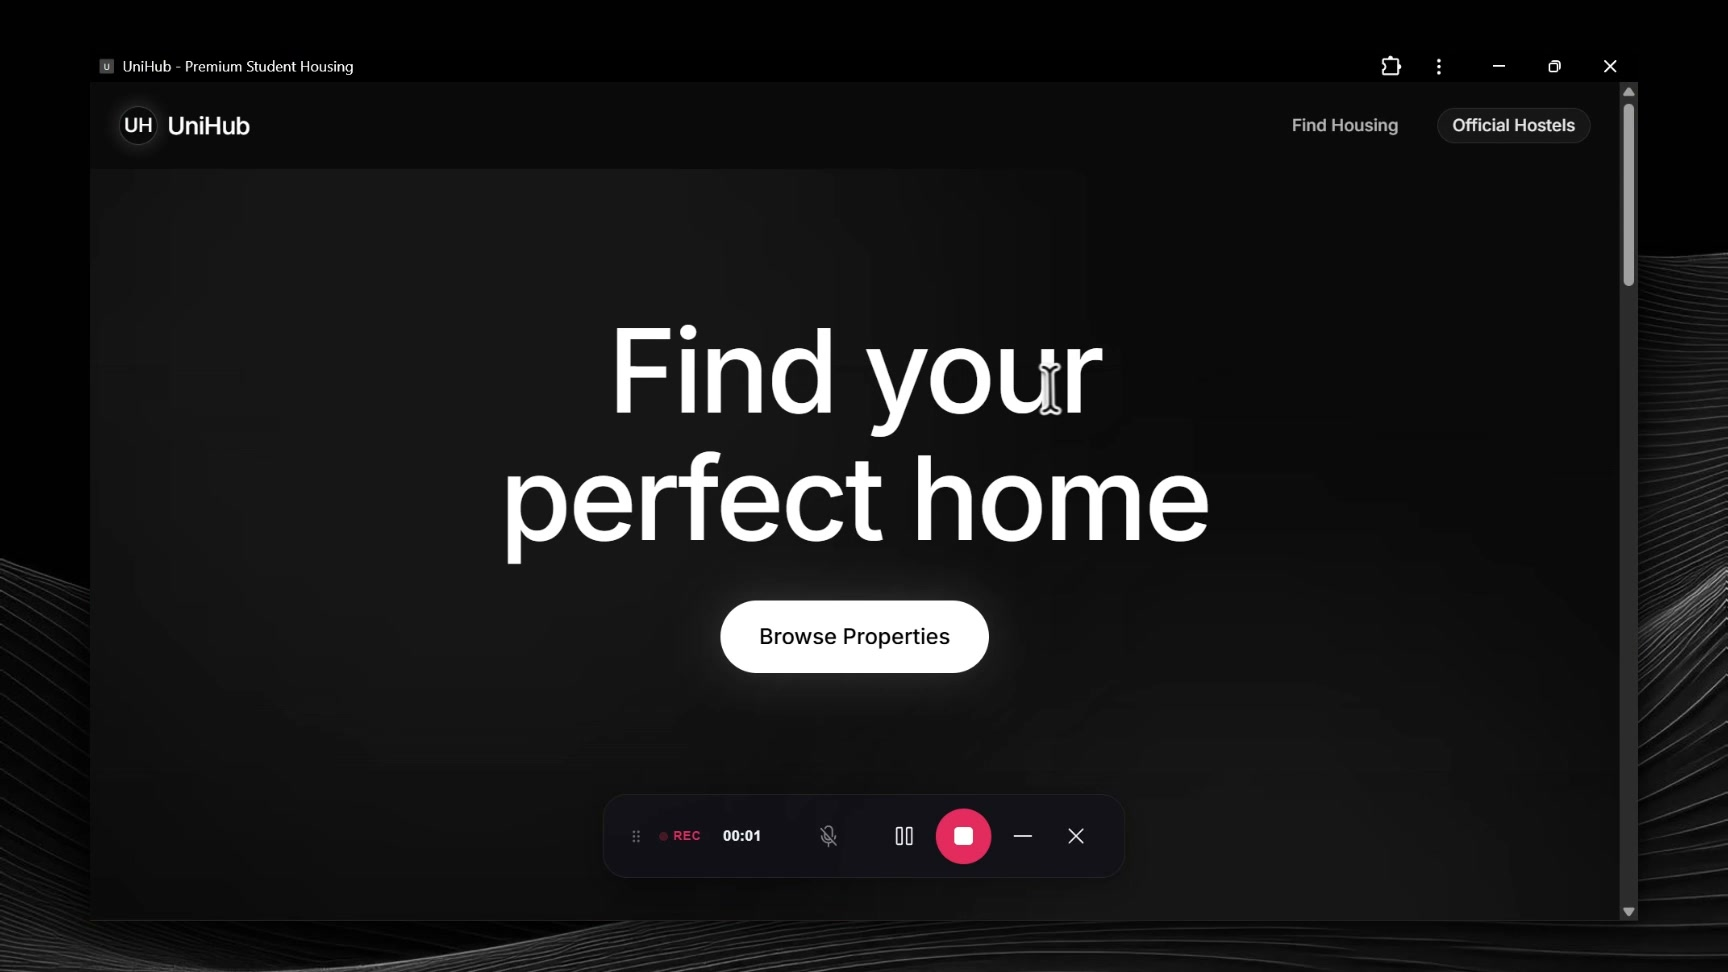
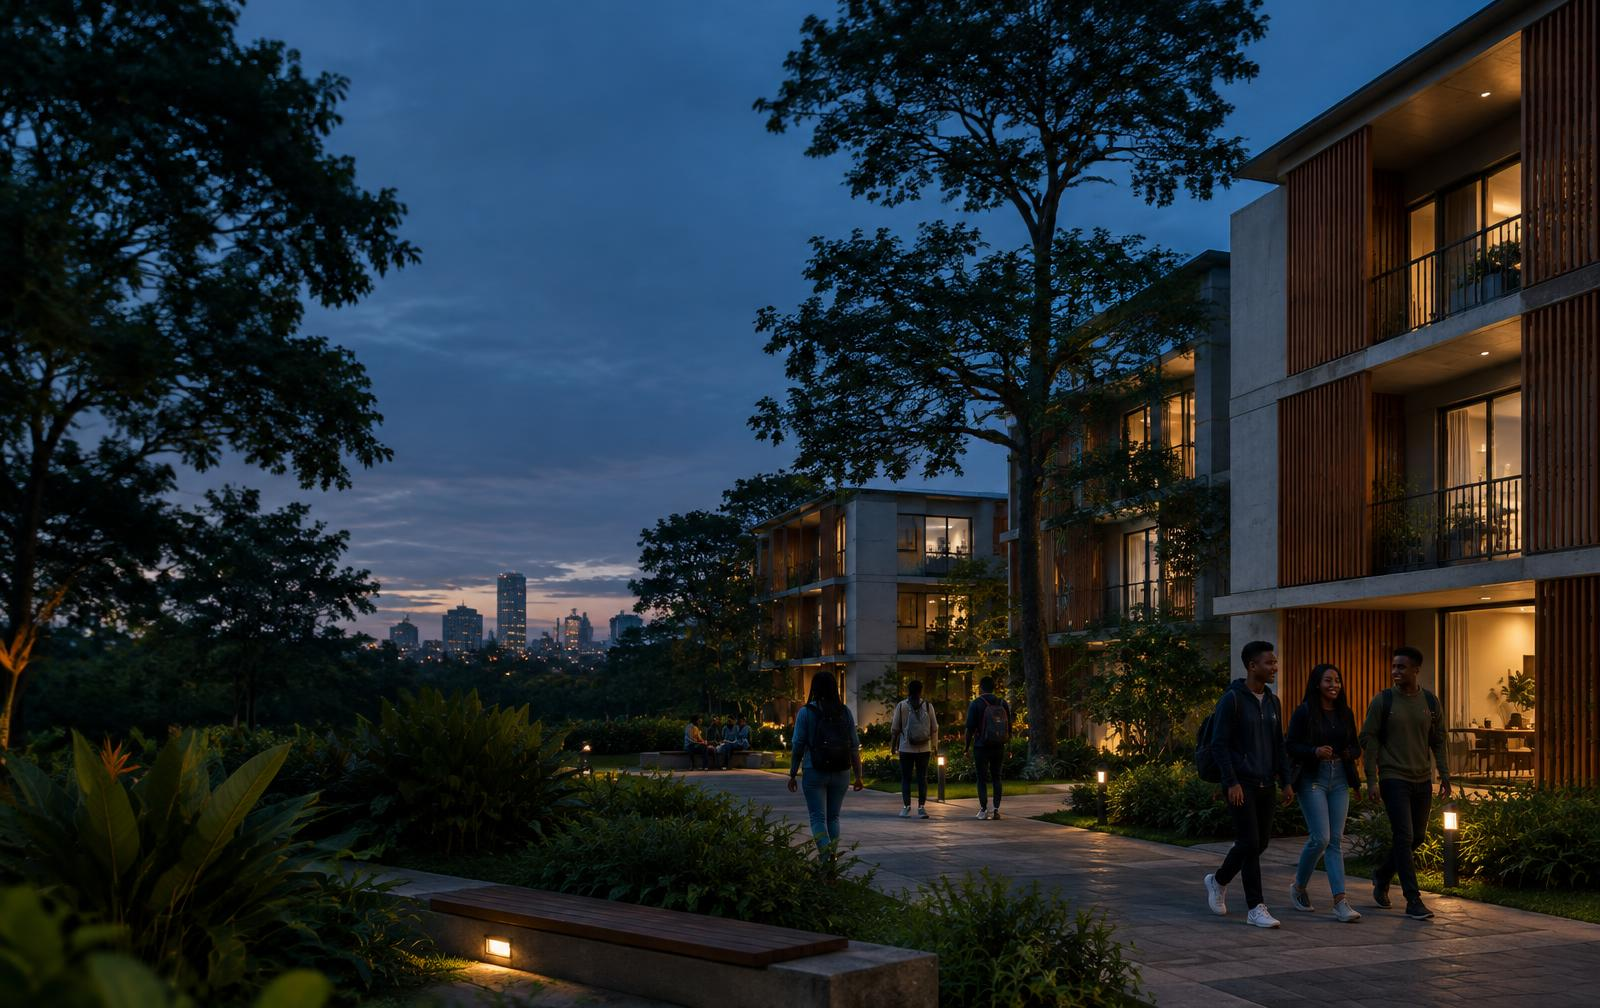
Remove screen recording from hero; restore housing image
Walkthrough clip kept as unihub-site-walkthrough.mp4 for later use.
Hero returns to static verified-housing photography.

diff --git a/src/routes/index.tsx b/src/routes/index.tsx
@@ -1,4 +1,3 @@
-import { useEffect, useRef } from "react";
 import { Link, createFileRoute } from "@tanstack/react-router";
 import {
   ArrowRight,
@@ -12,7 +11,6 @@ import {
 } from "lucide-react";
 import { SiteFooter, SiteHeader, WHATSAPP_URL } from "@/components/MarketingChrome";
 import heroImage from "@/assets/unihub-hero.jpg";
-import heroVideo from "@/assets/unihub-hero.mp4";
 import bedsitterImage from "@/assets/listing-bedsitter.jpg";
 import hostelImage from "@/assets/listing-hostel.jpg";
 import apartmentImage from "@/assets/listing-apartment.jpg";
@@ -171,28 +169,6 @@ function PrimaryLink({
 }
 
 function Index() {
-  const heroVideoRef = useRef<HTMLVideoElement>(null);
-
-  useEffect(() => {
-    const video = heroVideoRef.current;
-    if (!video) return;
-
-    const media = window.matchMedia("(prefers-reduced-motion: reduce)");
-    const syncPlayback = () => {
-      if (media.matches) {
-        video.pause();
-        return;
-      }
-      void video.play().catch(() => {
-        // Autoplay can fail before user gesture; poster still shows.
-      });
-    };
-
-    syncPlayback();
-    media.addEventListener("change", syncPlayback);
-    return () => media.removeEventListener("change", syncPlayback);
-  }, []);
-
   return (
     <div className="min-h-screen overflow-x-hidden bg-background text-foreground">
       <SiteHeader />
@@ -202,19 +178,13 @@ function Index() {
           id="top"
           className="relative flex min-h-[94svh] items-end overflow-hidden pb-10 pt-28 md:items-center md:pb-8"
         >
-          <video
-            ref={heroVideoRef}
+          <img
+            src={heroImage}
+            alt="Modern student residences near a leafy Kenyan campus"
+            width={1600}
+            height={1008}
             className="hero-image absolute inset-0 h-full w-full object-cover"
-            autoPlay
-            muted
-            loop
-            playsInline
-            preload="metadata"
-            poster={heroImage}
-            aria-hidden="true"
-          >
-            <source src={heroVideo} type="video/mp4" />
-          </video>
+          />
           <div className="hero-overlay absolute inset-0" aria-hidden="true" />
           <div className="noise absolute inset-0 opacity-50" aria-hidden="true" />
           <div className="relative z-10 mx-auto w-full max-w-7xl px-5 md:px-8">
